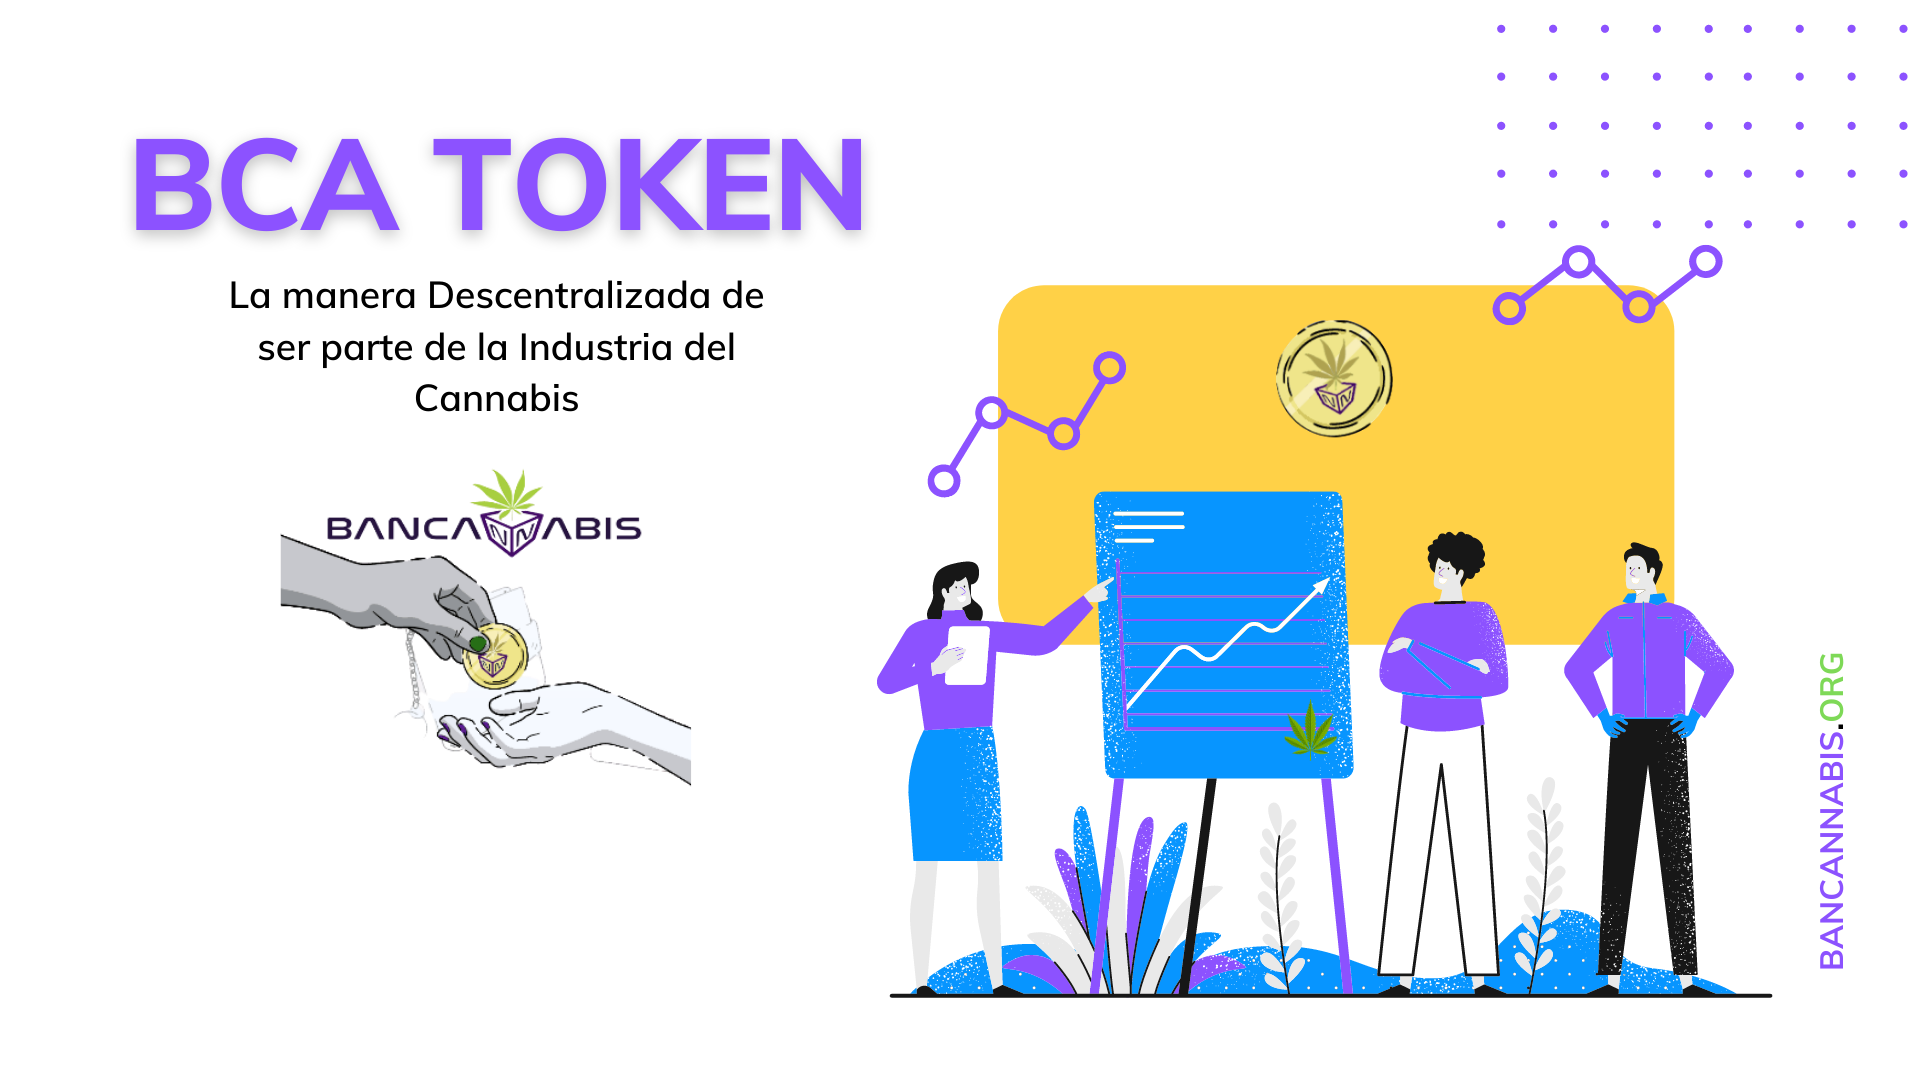
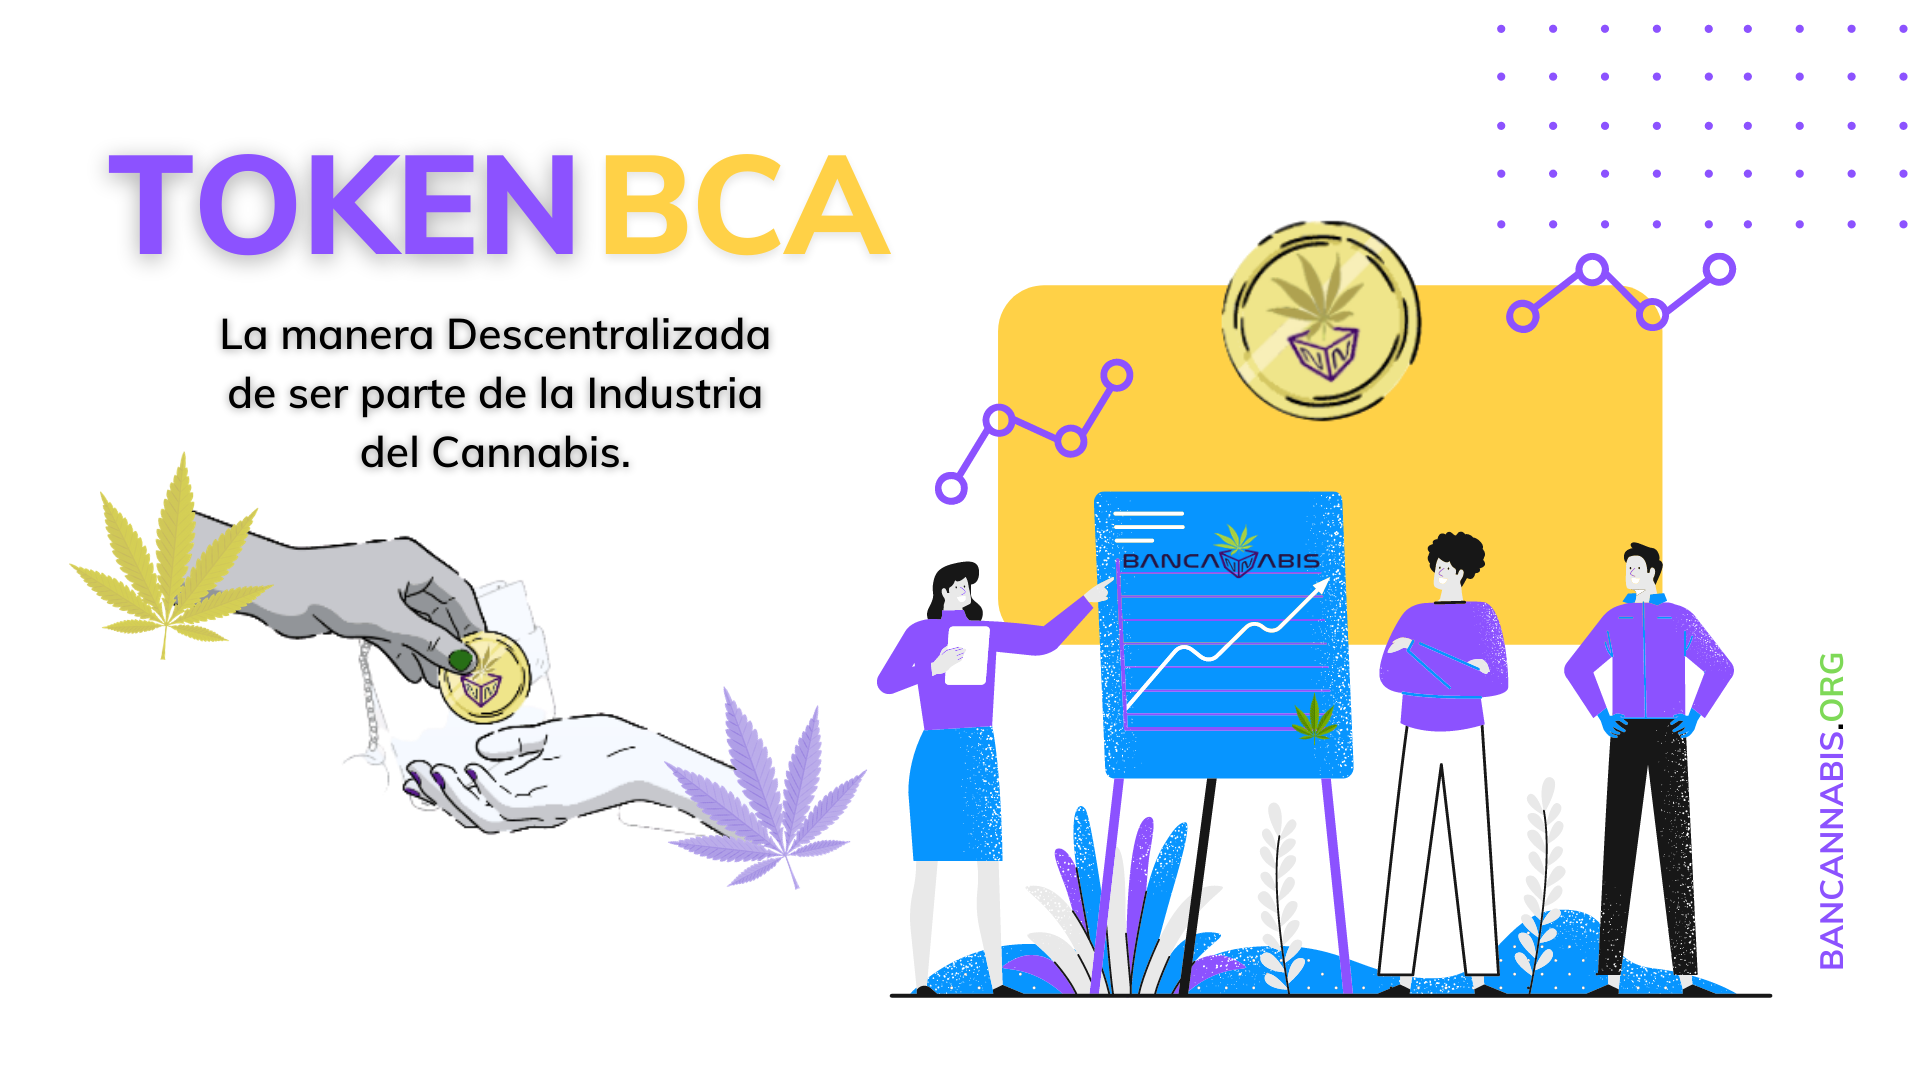
update

diff --git a/src/app/home/components/Stage/Stage.vue b/src/app/home/components/Stage/Stage.vue
@@ -92,7 +92,7 @@ export default {
   }
 
   @include mediaMin(tabletPortrait) {
-    max-height: 50vh;
+    max-height: 55vh;
     img {
       max-width: 5.6rem;
       max-height: 15rem;
@@ -100,12 +100,12 @@ export default {
     }
   }
   @include mediaMin(phone) {
-    max-height: 72vh;
+    min-height: 55vh;
     max-weight: 50vh;
     text-align: center;
     img {
       max-width: 15rem;
-      max-height: 15rem;
+      max-height: 10rem;
     }
     h2 {
       margin-bottom: $space-32;

diff --git a/src/app/home/components/HomeSection/HomeSection.vue b/src/app/home/components/HomeSection/HomeSection.vue
@@ -66,19 +66,16 @@ export default {
 }
 
 .image {
-  background-size: cover;
   background-repeat: no-repeat;
-  background-position: 5%;
-  margin-bottom: $space-32;
   border-radius: 10%;
   border: none !important;
+  max-height: 65vh;
   /*  box-shadow: $button-active-shadow; */
   @include mediaMin(tabletPortrait) {
     width: 100%;
     height: 100%;
     object-fit: contain;
     margin-bottom: 0;
-    zoom: -20%;
   }
   @include mediaMin(phone) {
     width: 100%;

diff --git a/src/app/home/Home/Home.vue b/src/app/home/Home/Home.vue
@@ -107,9 +107,9 @@ export default {
       },
       setImagen: (state: IState) => {
         if (state.app.locale == 'es') {
-          return '/re-esp.png';
+          return '/welcome_eng.png';
         } else {
-          return '/re-eng.png';
+          return '/welcome_eng.png';
         }
       },
     }),
